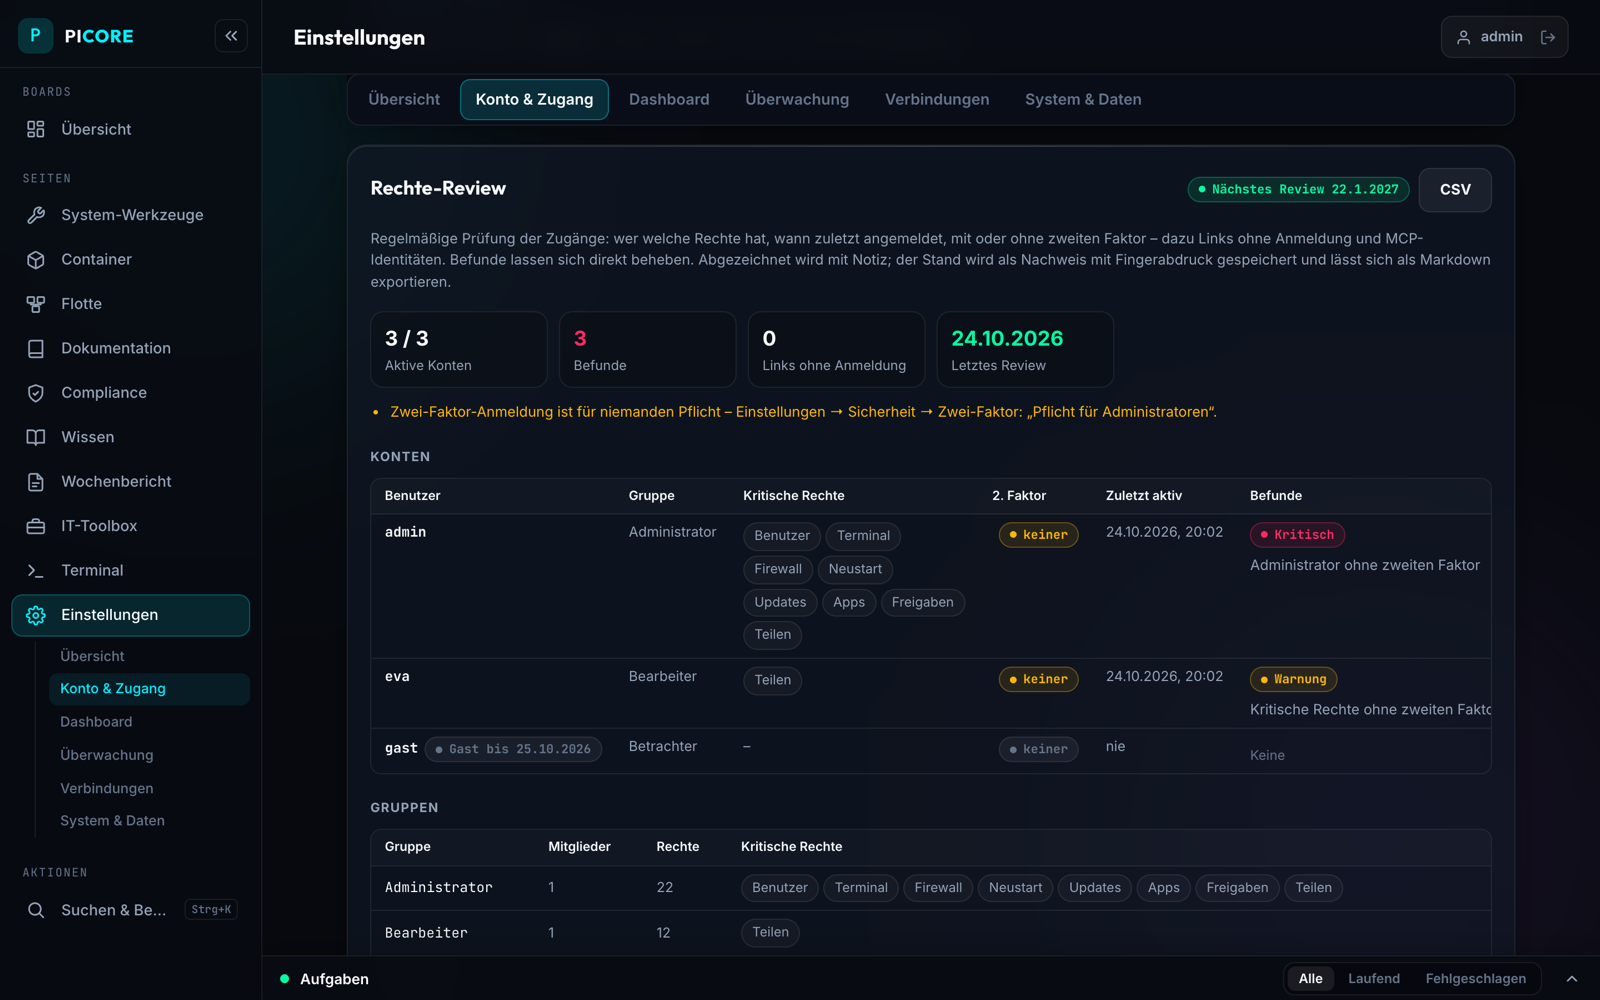
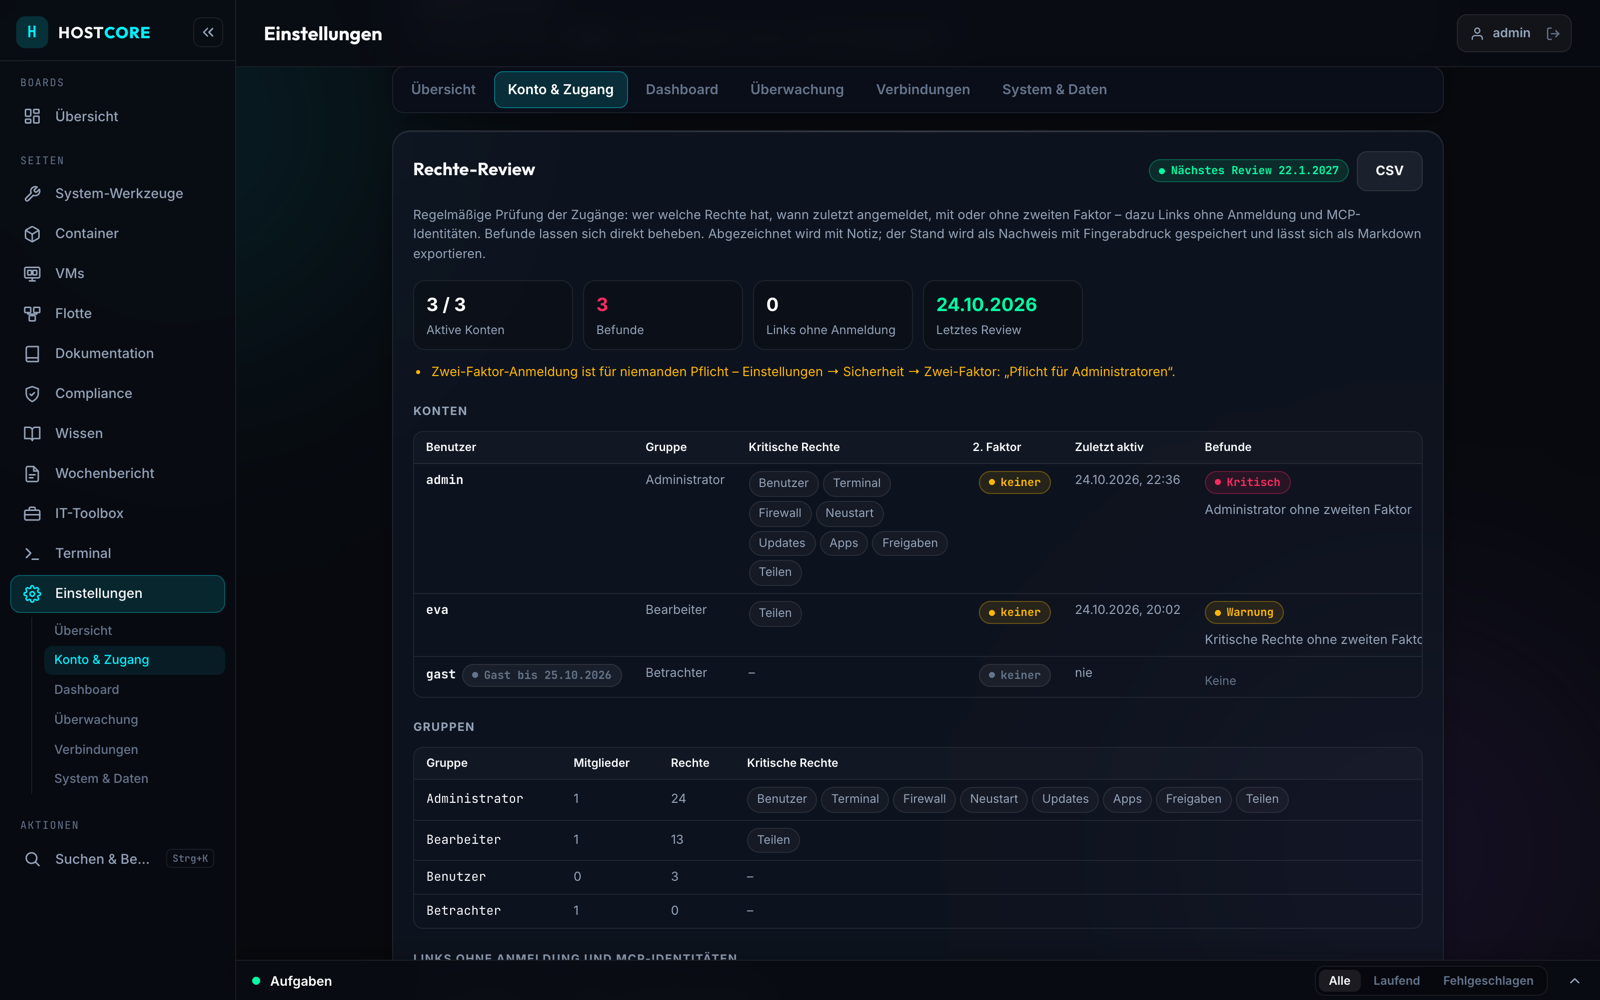
Screenshots for HostCore: containers, GitOps, change requests, patch deadlines, access review and baseline check retaken with the new name, plus the virtual machines page and VM details; new social preview image

diff --git a/README.md b/README.md
@@ -69,6 +69,8 @@ Plus: Homarr-style boards, command palette (Ctrl+K), alerting with escalation, e
 | Change requests with four-eyes approval | Patch deadlines per severity |
 | ![Access review](docs/screenshots/access-review.png) | ![Baseline check](docs/screenshots/compliance.png) |
 | Access review | Baseline check |
+| ![Virtual machines](docs/screenshots/vms.png) | ![VM details](docs/screenshots/vm-detail.png) |
+| Virtual machines (KVM) | VM details with console, disks and snapshots |
 
 ## Security model in short
 
